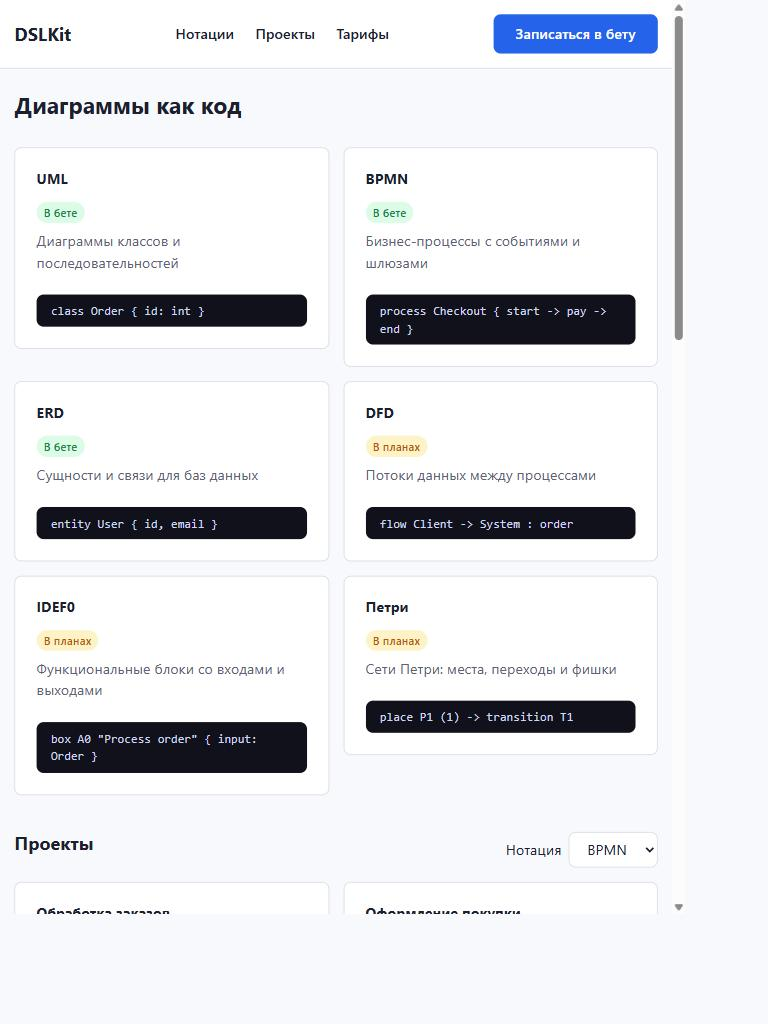
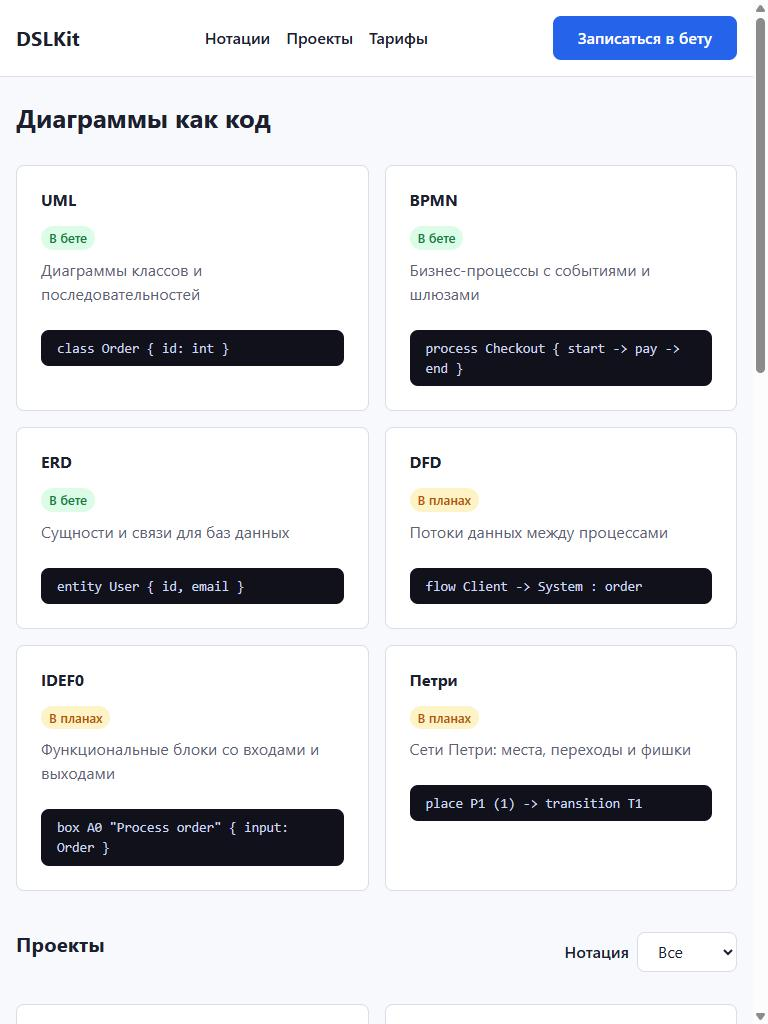
fix(react): style every element and make cards in a row the same height

diff --git a/react-app/src/index.css b/react-app/src/index.css
@@ -61,6 +61,49 @@ a {
   color: var(--color-primary);
 }
 
+#root {
+  display: flex;
+  flex-direction: column;
+  min-height: 100vh;
+}
+
+#root > main {
+  flex: 1;
+  width: 100%;
+}
+
+section {
+  scroll-margin-top: var(--space-4);
+}
+
+nav {
+  display: block;
+}
+
+ul {
+  margin: 0;
+  padding-left: var(--space-3);
+}
+
+li {
+  margin-bottom: var(--space-1);
+}
+
+label {
+  color: var(--color-text);
+  font-weight: 500;
+}
+
+option {
+  background: var(--color-surface);
+  color: var(--color-text);
+}
+
+strong {
+  color: var(--color-text);
+  font-weight: 700;
+}
+
 :focus-visible {
   outline: 3px solid var(--color-primary);
   outline-offset: 2px;
@@ -105,6 +148,21 @@ a {
   margin: 0;
   padding: 0;
   list-style: none;
+}
+
+.grid > li {
+  display: flex;
+  min-width: 0;
+  margin: 0;
+}
+
+.grid > li > * {
+  flex: 1;
+}
+
+.project-list {
+  display: grid;
+  gap: var(--space-2);
 }
 
 @media (min-width: 576px) {

diff --git a/react-app/src/components/features/ProjectList.jsx b/react-app/src/components/features/ProjectList.jsx
@@ -5,7 +5,7 @@ import ProjectCard from './ProjectCard';
 function ProjectList({ projects, notation = 'all', notations = [], onOpen, onFilterChange }) {
   const visible = filterByNotation(projects, notation);
   return (
-    <div>
+    <div className="project-list">
       <div className="section__head">
         <h2>Проекты</h2>
         <div className="toolbar">

diff --git a/react-app/src/components/ui/Card.module.css b/react-app/src/components/ui/Card.module.css
@@ -1,5 +1,6 @@
 .card {
   display: grid;
+  align-content: start;
   gap: var(--space-2);
   padding: var(--space-3);
   border: 1px solid var(--color-border);

diff --git a/react-app/src/components/layout/Header.module.css b/react-app/src/components/layout/Header.module.css
@@ -37,3 +37,7 @@
 .link:hover {
   color: var(--color-primary);
 }
+
+.links li {
+  margin: 0;
+}

diff --git a/labs/07-react-components/report.en.md b/labs/07-react-components/report.en.md
@@ -153,7 +153,7 @@ import ProjectCard from './ProjectCard';
 function ProjectList({ projects, notation = 'all', notations = [], onOpen, onFilterChange }) {
   const visible = filterByNotation(projects, notation);
   return (
-    <div>
+    <div className="project-list">
       <div className="section__head">
         <h2>Проекты</h2>
         <div className="toolbar">

diff --git a/labs/07-react-components/report.md b/labs/07-react-components/report.md
@@ -153,7 +153,7 @@ import ProjectCard from './ProjectCard';
 function ProjectList({ projects, notation = 'all', notations = [], onOpen, onFilterChange }) {
   const visible = filterByNotation(projects, notation);
   return (
-    <div>
+    <div className="project-list">
       <div className="section__head">
         <h2>Проекты</h2>
         <div className="toolbar">
